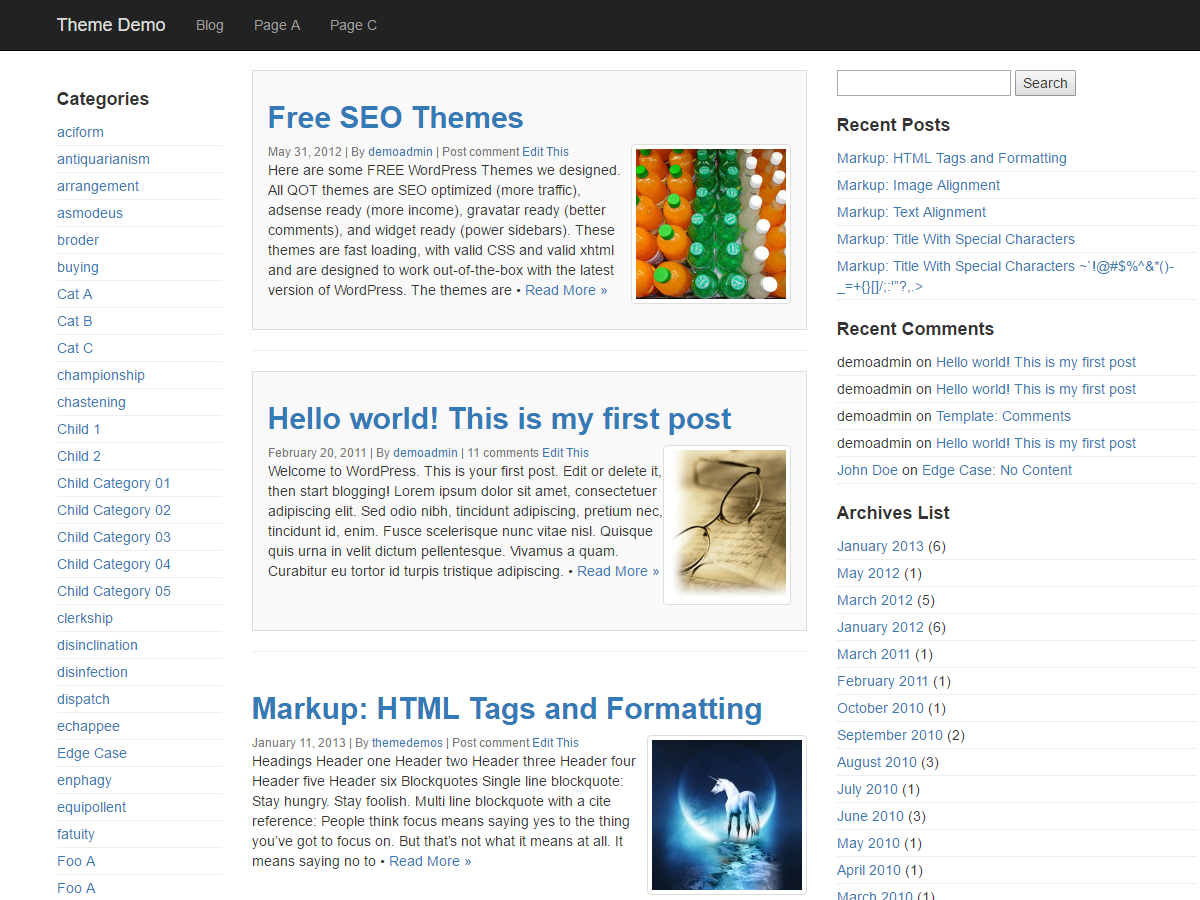
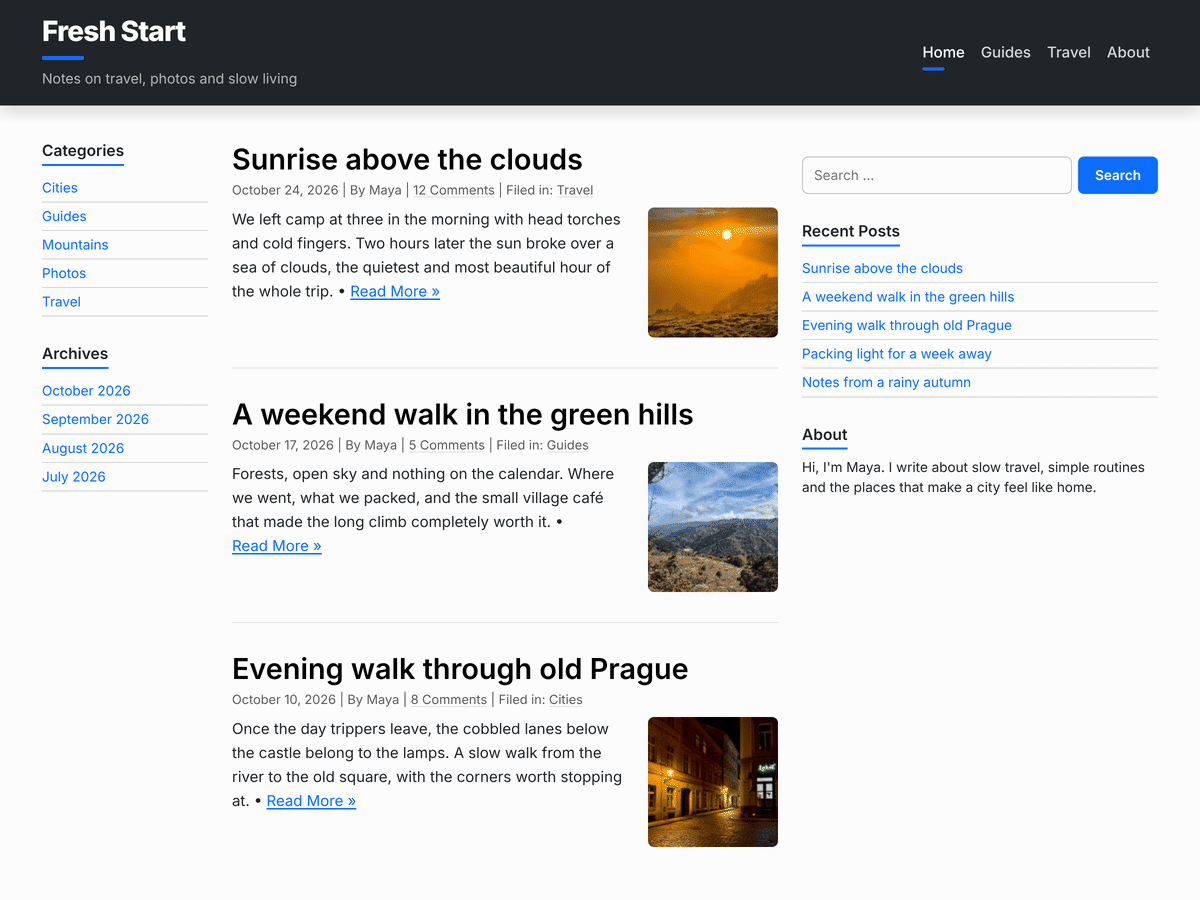
QuickStrap 1.4: readme, theme description and a new screenshot
- readme.txt in the WordPress.org format: who the theme is for, what it
  does, FAQ (Bootstrap classes in posts, the Bootstrap Extras switches,
  the two sidebars, widget areas, dark mode, social icons, how Bootstrap
  is updated), the 1.4 changelog and the licences of everything bundled.
- style.css Description opens with who QuickStrap is for, and drops claims
  we can't back up ("SEO optimized"). New tags: custom-colors,
  full-width-template, block-styles, blog, two-columns.
- Version 1.4, tested up to WordPress 7.1, requires PHP 7.4.
- New screenshot.png (97 KB, 1200x900) of a demo blog in the current
  design. The old one showed the 2019 design and photos of unknown
  licence; the new one uses only CC0 photos from WordPress.org Photos,
  credited in the readme.

Changed region(s): [[0.0, 0.0, 1.0, 1.0]]

diff --git a/themes/quickstrap/style.css b/themes/quickstrap/style.css
@@ -1,14 +1,14 @@
 /*
 Theme Name: QuickStrap
 Theme URI: https://www.quickonlinetips.com/archives/quickstrap-wordpress-theme/
-Description: QuickStrap is a fast Bootstrap blog theme.
+Description: QuickStrap is a fast Bootstrap blog theme for bloggers and small sites who like Bootstrap's clean look and want room for widgets on both sides. Bootstrap's stylesheet plus one small theme stylesheet, no JavaScript and no web fonts, so pages load fast, and there is nothing to set up: activate it and start writing. A dark top bar with your site title and menu, posts in the middle, a right sidebar and an optional left sidebar; on phones nothing is hidden, the sidebars move below the posts. Includes automatic dark mode, header and accent colour pickers, a full width template, footer widgets, featured images and print styles, and Bootstrap's classes are ready to use in your posts. Uses the familiar Widgets and Menus screens and works with the block editor.
 Version: 1.4
 Requires at least: 6.0
 Tested up to: 7.1
 Requires PHP: 7.4
 Author: QuickOnlineTips
 Author URI: https://www.quickonlinetips.com/
-Tags: blog, three-columns, two-columns, left-sidebar, right-sidebar, custom-background, custom-logo, custom-menu, editor-style, featured-images, footer-widgets, sticky-post, threaded-comments, translation-ready
+Tags: blog, three-columns, two-columns, left-sidebar, right-sidebar, custom-background, custom-colors, custom-logo, custom-menu, editor-style, featured-images, footer-widgets, full-width-template, block-styles, sticky-post, threaded-comments, translation-ready
 Text Domain: quickstrap
 License: GNU General Public License v2 or later
 License URI: https://www.gnu.org/licenses/gpl-2.0.html
